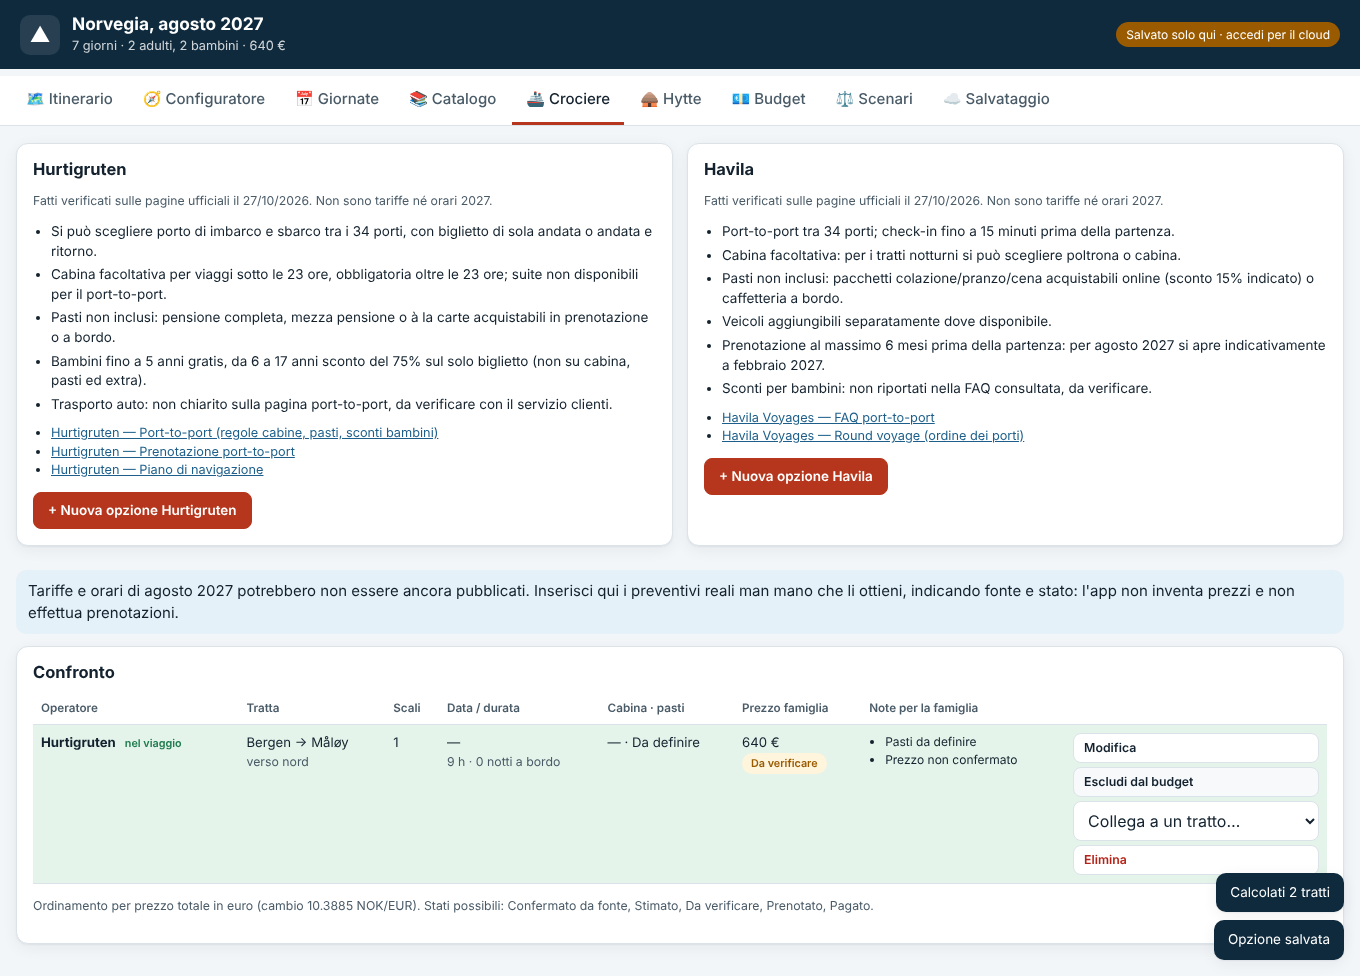
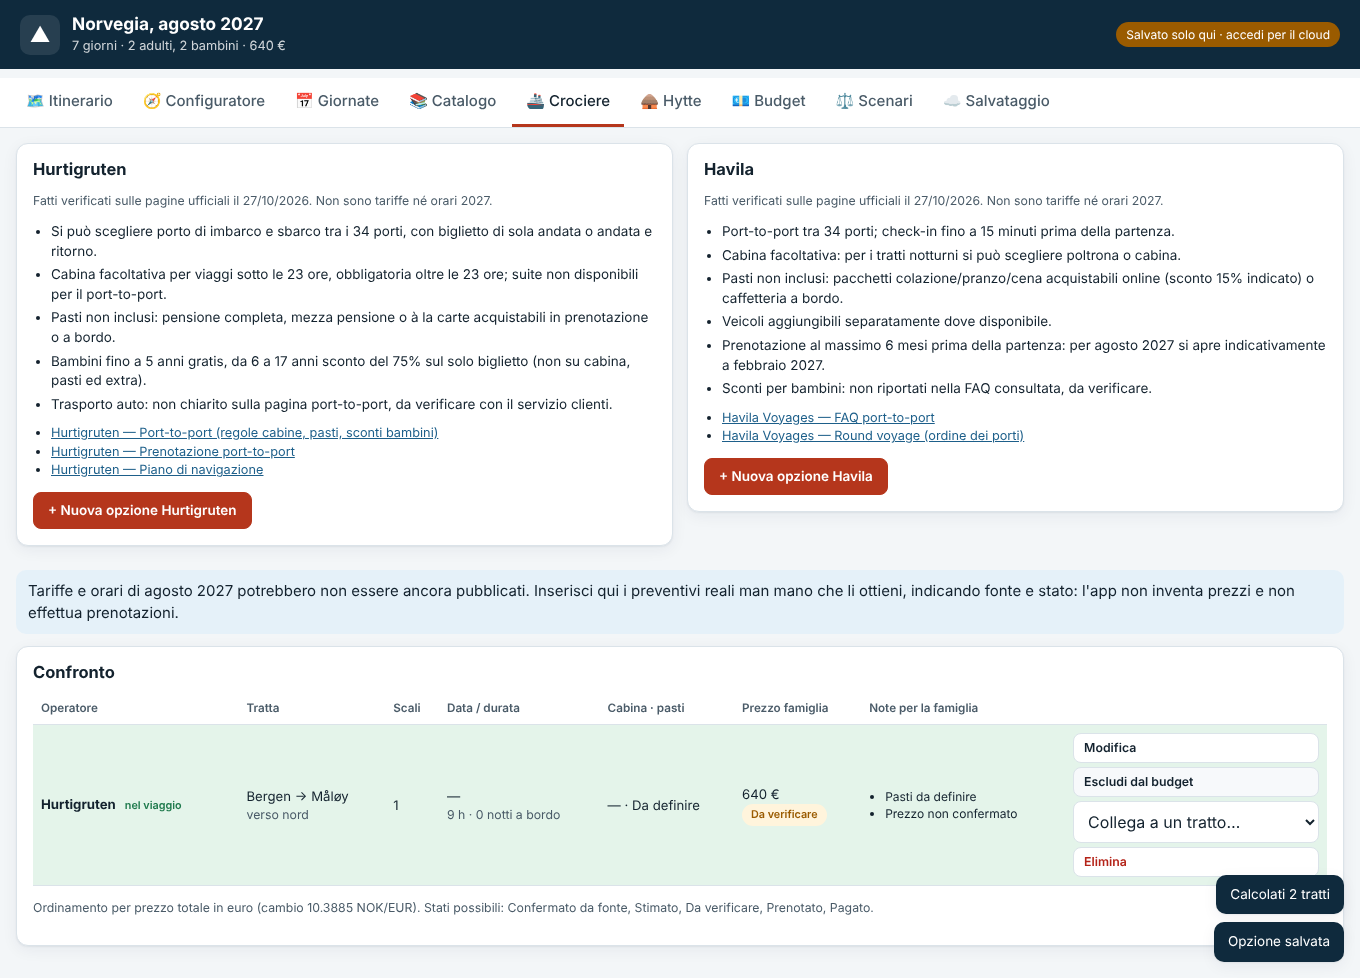
Moduli allineati: etichette, caselle e note sulla stessa riga; caselle di altezza uniforme; configuratore su 4 colonne
Claude-Session: https://claude.ai/code/session_016fyLs9RkbWaPdwCh4ANhpH

diff --git a/src/ui/ConfiguratorView.tsx b/src/ui/ConfiguratorView.tsx
@@ -8,11 +8,16 @@ import { useTrip } from '../state/store';
 import { Badge, Field, NumberInput } from './common';
 
 const REGIONS: Region[] = ['Oslo e Østlandet', 'Innlandet e montagne', 'Fiordi occidentali', 'Sørlandet e Rogaland', 'Trøndelag', 'Nordland e Lofoten', 'Troms e Finnmark'];
-const PACE_LABEL: Record<Pace, string> = {
-  tranquillo: 'Tranquillo (almeno 3 notti per tappa)',
-  equilibrato: 'Equilibrato (almeno 2 notti per tappa)',
-  intenso: 'Intenso (anche 1 notte per tappa)',
+const PACE_LABEL: Record<Pace, string> = { tranquillo: 'Tranquillo', equilibrato: 'Equilibrato', intenso: 'Intenso' };
+const PACE_HINT: Record<Pace, string> = {
+  tranquillo: 'Almeno 3 notti per tappa',
+  equilibrato: 'Almeno 2 notti per tappa',
+  intenso: 'Anche 1 notte per tappa',
 };
+const KIND_HINT = { auto_hytte: 'Strade e traghetti dei fiordi', auto_traghetti_costiera: 'Tratti lunghi in Hurtigruten/Havila', misto_treni: 'Treni dove conviene, auto altrove' } as const;
+const KIND_SHORT = { auto_hytte: 'Auto e hytte', auto_traghetti_costiera: 'Auto e nave costiera', misto_treni: 'Misto con treni' } as const;
+/** "Aeroporto Bergen Flesland" → "Bergen Flesland (BGO)" */
+const airportLabel = (id: string, name: string) => `${name.replace(/^Aeroporto (di )?/, '')} (${id.toUpperCase()})`;
 const KINDS = ['auto_hytte', 'auto_traghetti_costiera', 'misto_treni'] as const;
 const STORE_KEY = 'nfhp.configurator.v1';
 export const AUTO_ROUTE_KEY = 'nfhp.autoRoute';
@@ -94,8 +99,8 @@ export function ConfiguratorView() {
 
       <section className="panel">
         <h2>Impostazioni</h2>
-        <div className="grid-4">
-          <Field label="Giorni di viaggio" hint="Obiettivo: 15–20">
+        <div className="grid-4 cols-4">
+          <Field label="Giorni" hint="Obiettivo: 15–20">
             {(id) => <NumberInput id={id} value={input.days} min={5} onChange={(v) => v && set({ days: Math.min(30, Math.max(5, Math.round(v))) })} />}
           </Field>
           <Field label="Primo giorno">{(id) => <input id={id} type="date" value={input.startDate} onChange={(e) => e.target.value && set({ startDate: e.target.value })} />}</Field>
@@ -104,7 +109,7 @@ export function ConfiguratorView() {
               <select id={id} value={input.arrivalAirportId} onChange={(e) => set({ arrivalAirportId: e.target.value })}>
                 {AIRPORTS.map((a) => (
                   <option key={a.id} value={a.id}>
-                    {a.name}
+                    {airportLabel(a.id, a.name)}
                   </option>
                 ))}
               </select>
@@ -115,24 +120,24 @@ export function ConfiguratorView() {
               <select id={id} value={input.departureAirportId} onChange={(e) => set({ departureAirportId: e.target.value })}>
                 {AIRPORTS.map((a) => (
                   <option key={a.id} value={a.id}>
-                    {a.name}
+                    {airportLabel(a.id, a.name)}
                   </option>
                 ))}
               </select>
             )}
           </Field>
-          <Field label="Tipo di viaggio">
+          <Field label="Tipo di viaggio" hint={KIND_HINT[input.kind]}>
             {(id) => (
               <select id={id} value={input.kind} onChange={(e) => set({ kind: e.target.value as ConfiguratorInput['kind'] })}>
                 {KINDS.map((k) => (
                   <option key={k} value={k}>
-                    {SCENARIO_KIND_LABEL[k]}
+                    {KIND_SHORT[k]}
                   </option>
                 ))}
               </select>
             )}
           </Field>
-          <Field label="Ritmo">
+          <Field label="Ritmo" hint={PACE_HINT[input.pace]}>
             {(id) => (
               <select id={id} value={input.pace} onChange={(e) => set({ pace: e.target.value as Pace })}>
                 {(Object.keys(PACE_MIN_NIGHTS) as Pace[]).map((p) => (
@@ -143,14 +148,15 @@ export function ConfiguratorView() {
               </select>
             )}
           </Field>
-          <Field label="Guida massima al giorno (ore)" hint="Stima con soste e traghetti">
+          <Field label="Guida al giorno (ore)" hint="Massimo, con soste e traghetti">
             {(id) => <NumberInput id={id} value={input.maxDriveHours} min={1} step={0.5} onChange={(v) => v && set({ maxDriveHours: v })} />}
           </Field>
           <div className="field">
             <span className="field-label">Bambini</span>
-            <label className="check">
-              <input type="checkbox" checked={input.kidFriendly} onChange={(e) => set({ kidFriendly: e.target.checked })} /> Escludi le attività poco adatte ai piccoli
+            <label className="check field-control">
+              <input type="checkbox" checked={input.kidFriendly} onChange={(e) => set({ kidFriendly: e.target.checked })} /> Solo attività adatte
             </label>
+            <small className="hint">Esclude quelle poco adatte ai piccoli</small>
           </div>
         </div>
 

diff --git a/src/styles.css b/src/styles.css
@@ -244,16 +244,68 @@ code {
 }
 .grid-3 {
   grid-template-columns: repeat(auto-fit, minmax(200px, 1fr));
-  align-items: end;
 }
 .grid-4 {
   grid-template-columns: repeat(auto-fit, minmax(170px, 1fr));
-  align-items: end;
+}
+/* Moduli: ogni campo occupa tre righe della griglia (etichetta, controllo, nota) condivise con i campi
+   della stessa fila, così etichette, caselle e note restano allineate anche se una nota o un'etichetta
+   va a capo. Senza subgrid (browser vecchi) i campi restano semplicemente allineati in alto. */
+.grid-2,
+.grid-3,
+.grid-4 {
+  align-items: start;
+}
+@supports (grid-template-rows: subgrid) {
+  .grid-2 > .field,
+  .grid-3 > .field,
+  .grid-4 > .field {
+    display: grid;
+    grid-template-rows: subgrid;
+    grid-row: span 3;
+    row-gap: 4px;
+    align-content: start;
+  }
+  .grid-2 > .field > label:first-child,
+  .grid-3 > .field > label:first-child,
+  .grid-4 > .field > label:first-child,
+  .field > .field-label {
+    align-self: end;
+  }
+  .field > .hint {
+    align-self: start;
+  }
+}
+/* Griglia a colonne fisse: 4 sul computer, 2 su tablet, 1 su smartphone */
+.grid-4.cols-4 {
+  grid-template-columns: repeat(4, minmax(0, 1fr));
+}
+@media (max-width: 900px) {
+  .grid-4.cols-4 {
+    grid-template-columns: repeat(2, minmax(0, 1fr));
+  }
+}
+@media (max-width: 520px) {
+  .grid-4.cols-4 {
+    grid-template-columns: minmax(0, 1fr);
+  }
+}
+.form-wide {
+  grid-column: 1 / -1;
+}
+/* Controllo che non è una casella di testo (spunta, pulsante): stessa altezza delle caselle */
+.field-control {
+  min-height: 42px;
+  display: flex;
+  align-items: center;
+  gap: 8px;
+  flex-wrap: wrap;
 }
 
 input,
 select,
 textarea {
+  box-sizing: border-box;
   font: inherit;
   font-size: 16px; /* evita lo zoom automatico su iOS */
   color: var(--ink);
@@ -266,6 +318,10 @@ textarea {
 }
 textarea {
   resize: vertical;
+}
+input:not([type='checkbox']):not([type='radio']),
+select {
+  height: 42px;
 }
 input:focus-visible,
 select:focus-visible,
@@ -1017,8 +1073,13 @@ details summary {
   color: var(--danger);
   font-weight: 600;
 }
-.cap-cell input {
+.table td {
+  vertical-align: middle;
+}
+.cap-cell input:not([type='checkbox']) {
   width: 96px;
+  height: 34px;
+  padding: 4px 8px;
   text-align: right;
 }
 .row-over td:first-child,

diff --git a/src/ui/BudgetView.tsx b/src/ui/BudgetView.tsx
@@ -182,13 +182,16 @@ export function BudgetView() {
               )}
             </Field>
             <div className="field">
-              <span className="field-label">Aggiornamento</span>
-              <label className="check">
-                <input type="checkbox" checked={st.nokRateAuto !== false} onChange={(e) => setS({ nokRateAuto: e.target.checked })} /> Cambio automatico all'apertura
-              </label>
-              <button className="btn btn-small" disabled={refreshing} onClick={refresh}>
-                {refreshing ? 'Aggiornamento…' : 'Aggiorna ora'}
-              </button>
+              <span className="field-label">Aggiornamento del cambio</span>
+              <div className="field-control">
+                <label className="check">
+                  <input type="checkbox" checked={st.nokRateAuto !== false} onChange={(e) => setS({ nokRateAuto: e.target.checked })} /> Automatico
+                </label>
+                <button className="btn btn-small" disabled={refreshing} onClick={refresh}>
+                  {refreshing ? 'Aggiornamento…' : 'Aggiorna ora'}
+                </button>
+              </div>
+              <small className="hint">All'apertura dell'app, al massimo ogni 6 ore</small>
             </div>
             <Field label="Alimentazione dell'auto">
               {(id) => (
@@ -240,11 +243,12 @@ export function BudgetView() {
             </Field>
             {car.fuel !== 'elettrica' && (
               <div className="field">
-                <span className="field-label">Prezzo</span>
-                <label className="check">
+                <span className="field-label">Aggiornamento del prezzo</span>
+                <label className="check field-control">
                   <input type="checkbox" checked={car.priceAuto} onChange={(e) => (e.target.checked ? void refresh() : setCar({ priceAuto: false }))} /> Media nazionale
                   automatica
                 </label>
+                <small className="hint">Statistics Norway, dato mensile</small>
               </div>
             )}
           </div>

diff --git a/src/ui/SettingsView.tsx b/src/ui/SettingsView.tsx
@@ -252,13 +252,18 @@ function CloudPanel() {
           <Field label="Password">
             {(id) => <input id={id} type="password" autoComplete="current-password" value={password} onChange={(e) => setPassword(e.target.value)} />}
           </Field>
-          <div className="row">
-            <button className="btn btn-primary" type="submit" disabled={busy || !email || password.length < 6}>
-              Accedi
-            </button>
-            <span className="muted small">Accesso riservato agli account autorizzati.</span>
+          <div className="field">
+            <span className="field-label" aria-hidden>
+              &nbsp;
+            </span>
+            <div className="field-control">
+              <button className="btn btn-primary" type="submit" disabled={busy || !email || password.length < 6}>
+                Accedi
+              </button>
+            </div>
+            <small className="hint">Accesso riservato agli account autorizzati.</small>
           </div>
-          {cloud.error && <p className="error small">{cloud.error}</p>}
+          {cloud.error && <p className="error small form-wide">{cloud.error}</p>}
         </form>
       ) : (
         <>

diff --git a/src/ui/ScenariosView.tsx b/src/ui/ScenariosView.tsx
@@ -84,16 +84,23 @@ export function ScenariosView() {
               </select>
             )}
           </Field>
-          <button
-            className="btn btn-primary"
-            onClick={() => {
-              update((cur) => addScenario(cur, name, kind, from));
-              setName('');
-              toast('Scenario creato: aprilo per modificarlo');
-            }}
-          >
-            Crea scenario
-          </button>
+          <div className="field">
+            <span className="field-label" aria-hidden>
+              &nbsp;
+            </span>
+            <div className="field-control">
+              <button
+                className="btn btn-primary"
+                onClick={() => {
+                  update((cur) => addScenario(cur, name, kind, from));
+                  setName('');
+                  toast('Scenario creato: aprilo per modificarlo');
+                }}
+              >
+                Crea scenario
+              </button>
+            </div>
+          </div>
         </div>
       </section>
 
